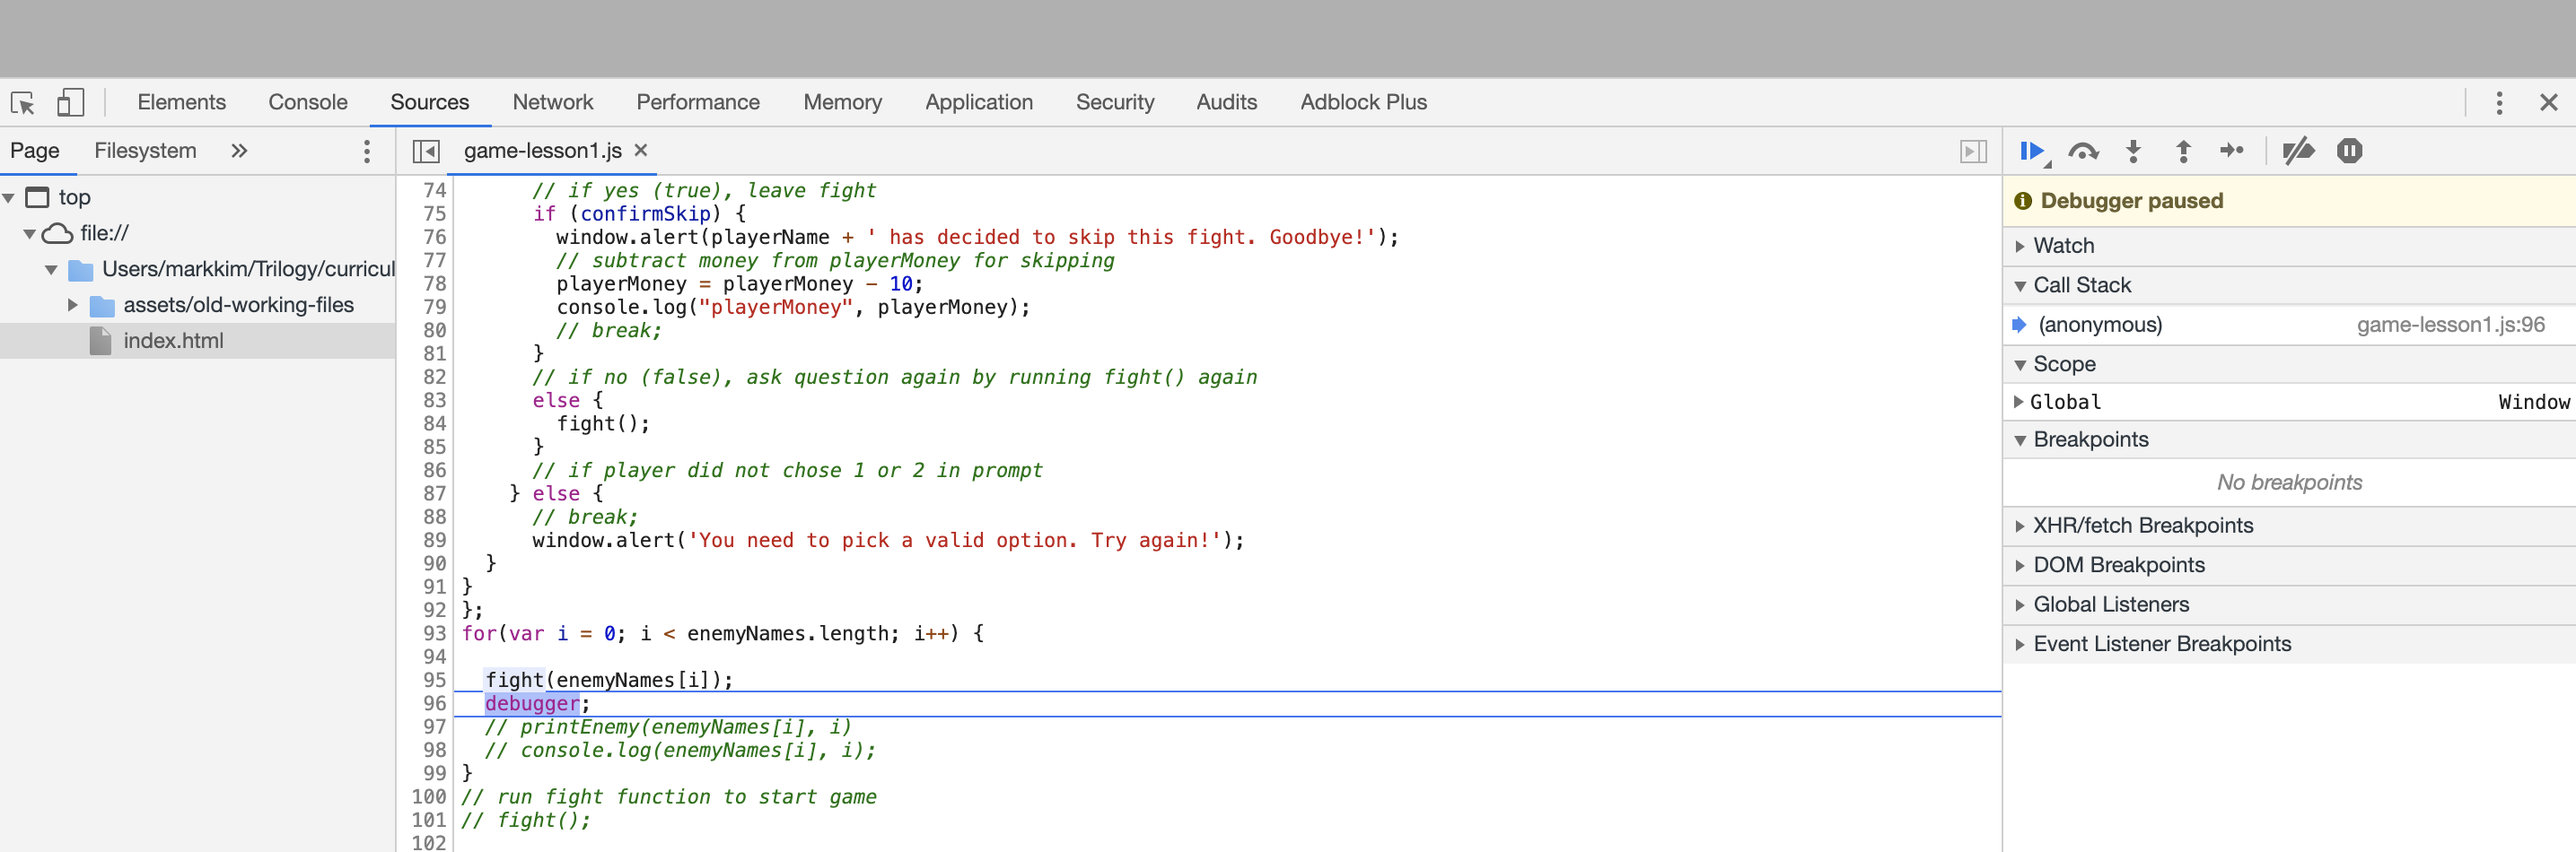
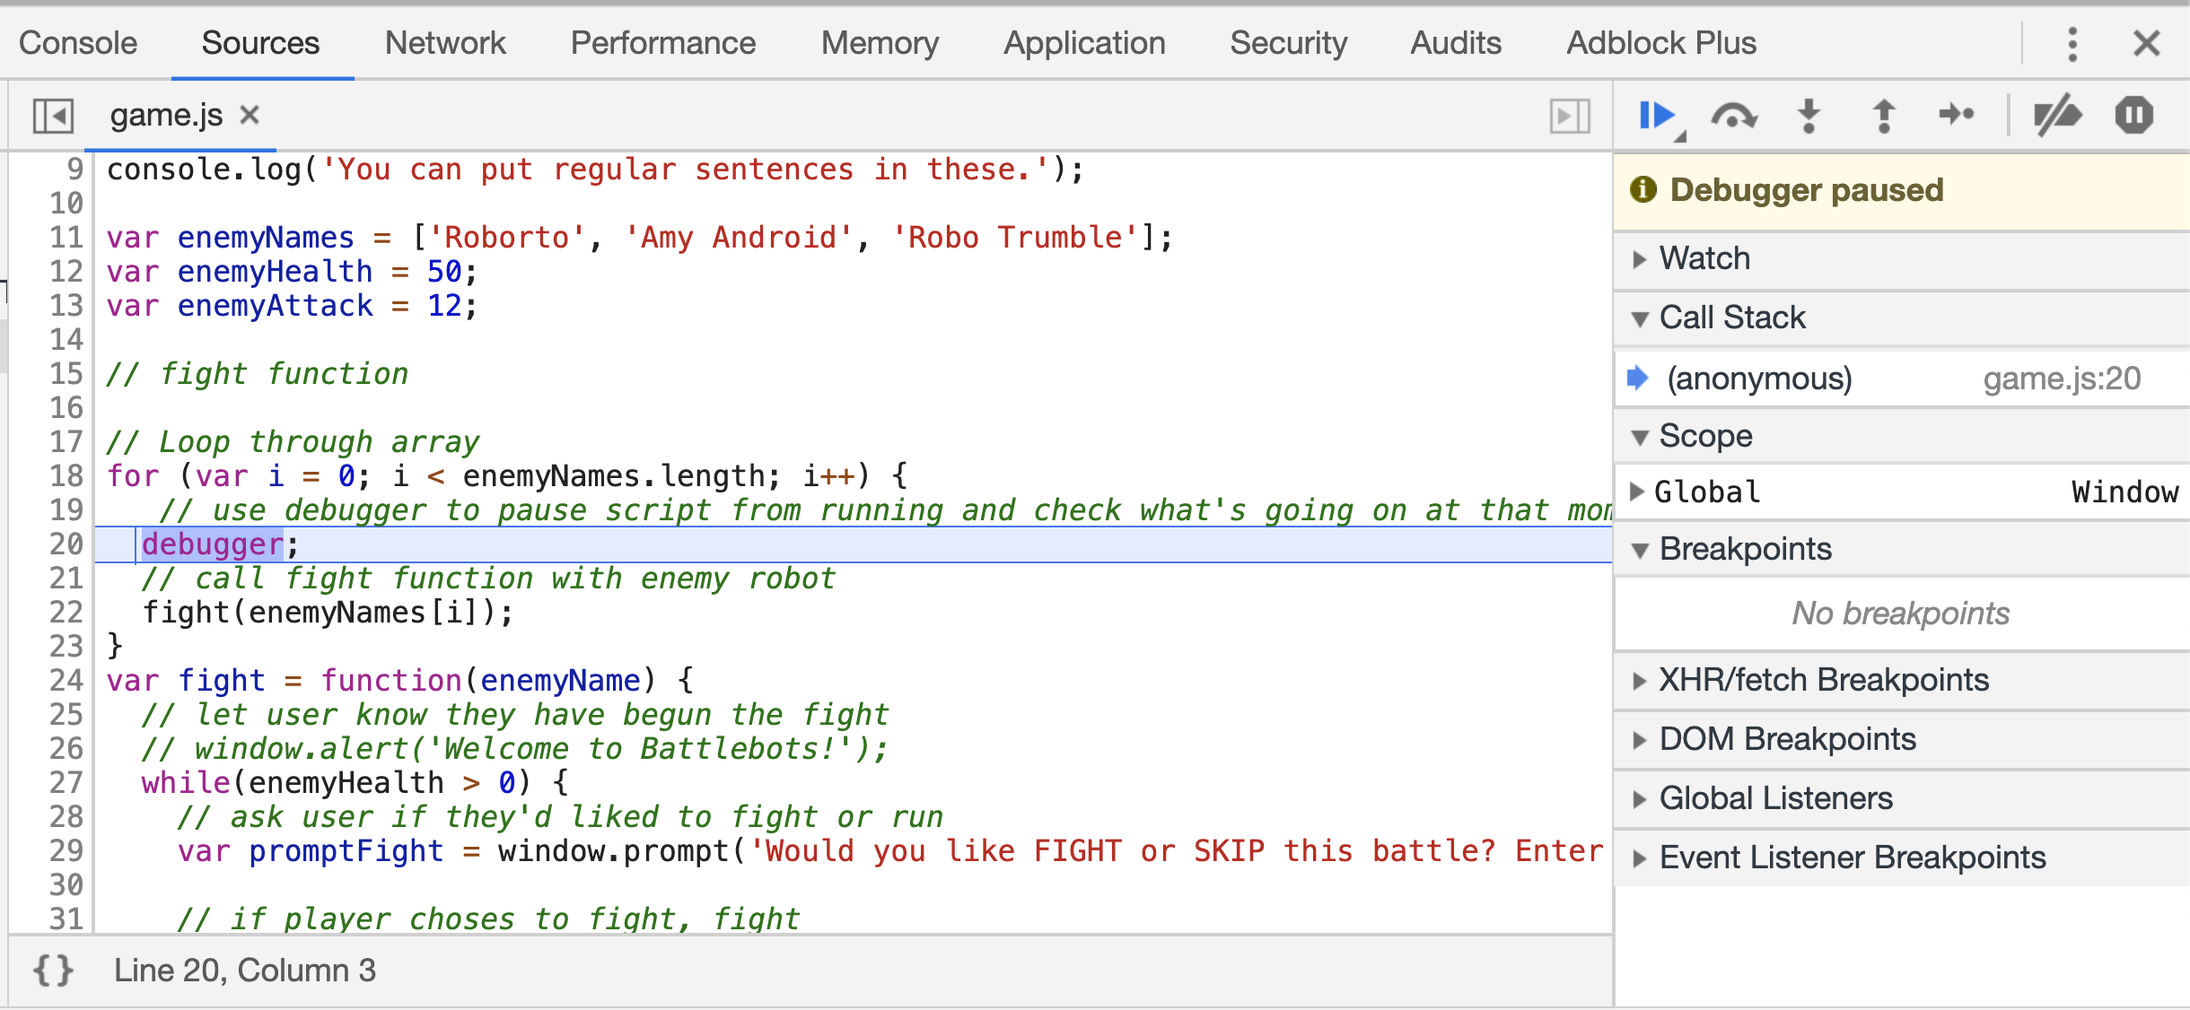
Lose condition

Changed region(s): [[0.0, 0.0, 1.0, 1.0], [0.7164, 0.9768, 0.7475, 1.0]]

diff --git a/03-javascript/project/index.html b/03-javascript/project/index.html
@@ -8,5 +8,7 @@
 </head>
 <body>
   <script src="./assets/old-working-files/game-lesson1.js"></script>
+  <!-- <script src="./assets/old-working-files/game-lesson2.js"></script> -->
+
 </body>
 </html>

diff --git a/03-javascript/content/lesson-2-loops.md b/03-javascript/content/lesson-2-loops.md
@@ -233,12 +233,12 @@ alert("Hello");               // string argument
 console.log(enemyNames[i], i) // two arguments, comma separated
 for(var i = 0; i < enemyNames.length; i++) // three arguments; semicolons are specific to for loops
 ```
-Previously we have been using arguments with `window` methods and JavaScript functions, but now we will construct our own function that is able to pass in an argument. Now let's make some changes to our `fight()` function expression to allow an argument to be used. Remember the function expression defines the "how" and "what" of our function's operations. If we want the function to perform differently we must change our function definition every time. We would like to convert our `fight()` function to pass in an enemy robot and then fight this robot. Let's find our `fight()` expression and change the first line to the following:
+Previously we have been using arguments with `window` methods and JavaScript functions, but now we will change our `fight()`  function to pass in an argument. Remember the function expression defines the "how" and "what" of our function's operations. If we want the function to perform differently we must change our function's definition. We would like to convert our `fight()` function to pass in an enemy robot and then fight this robot. Let's find our `fight()` expression and change the first line to the following:
 ```javascript
 var fight = function(enemyName) {
 ```
-We just redefined our `fight` variable to now be a function that is able to input or receive a variable. Since we are dealing the a variable placeholder in the function definition, we call this the function *parameter*.
-> **Deep Dive:** Parameters vs Arguments - Parameters are often confused with arguments due to the similarity in syntax. The main distinction between them is the purpose in relation to the function. In a function expression, a parameter serves as a variable placeholder that indicates how this variable will be used in the function. Since the use of the parameter is reserved to only the scope of the function, the name of the parameter isn't very significant, but normally is related to the type or purpose of the variable as follows: 
+We just redefined our `fight` variable to now be a function that is able to input or receive a variable. Since we are dealing the a variable placeholder in the function definition, we call this the function's *parameter*.
+> **Deep Dive:** Parameters vs Arguments - Parameters are often confused with arguments due to the similarity in syntax. The main distinction between them is the purpose in relation to the function. In a function expression, a parameter serves as a variable placeholder that indicates how this variable will be used in the function. Since the use of the parameter is reserved to only the scope of the function, the name of the parameter isn't significant, but normally is related to the type or purpose of the variable as follows: 
 >```javascript
 >var wash = function(soapType) {
 >  console.log("I wash with " + soapType);
@@ -248,10 +248,10 @@ We just redefined our `fight` variable to now be a function that is able to inpu
 >```javascript
 >wash("Irish Spring"); // => I wash with Irish Spring
 >```
->Will be returned in the console.
-As shown, the argument is part of the function call, not the function expression. The argument passes information into the function whether that be a variable or a value with any data type or data structure.
+>Will be displayed in the console.
+As shown, the argument is part of the function call and passes information into the function whether that be a variable or a value with any data type or data structure.
 
-Let's look into the `fight()` function and note that by adding the parameter `enemyName` this maps perfectly within the function to display our enemy robot's name.
+Let's look into the `fight()` function and note that by adding the parameter `enemyName` maps perfectly within the function to our original `enemyName` variable we used to store our enemy robot's name.
 
 ### Application Organization
 Now that our `fight()` function has been corrected, let's continue with our goal to make our robot fight each of our enemy robots. Before we proceed let's make sure our app is correctly organized. Our global variables should be at the top of our `game.js` file along with our `enemyNames` array.
@@ -265,10 +265,8 @@ var enemyNames = ['Roborto', 'Amy Android', 'Robo Trumble'];
 var enemyHealth = 50;
 var enemyAttack = 12;
 ```
-Let's comment out our `console.log` statements for now to declutter our console window. Next in our file should be the `fight()` function expression. This has to be above our `for` loop because since we will be calling the `fight()` within our loop. 
-> **Pause:** If the function is not declared before the function call, what type of error will be in the console?
-> 
-> **Answer:** *Uncaught ReferenceError*
+Let's comment out our `console.log` statements for now to declutter our console window. Next in our `game.js` file should be the `fight()` function expression. This has to be above our `for` loop because we will be calling the `fight()` within our loop. 
+If the function is not declared before the function call, we would get an error similar to the one we received earlier except a bit different.  Uncaught TypeError: fight is not a function
 
 Now let's type the `for` loop into our `game.js` file beneath the `fight()` function as follows:
 ```javascript
@@ -284,38 +282,40 @@ As can be seen in our console, we have successfully looped through our array and
 This is a great spot to add, commit, and push our work into the Github repo for safe keeping. 
 
 ## Fight Loop
-The next objective is to defeat each robot. Currently we are only able to fight each robot once. So how do we go about fighting each robot until a winner is found? Sounds a bit like we need another loop, to continue the fighting. Earlier we determined that to defeat a robot we need to fight them until their health points reduce to zero or less. This was translated into code by using the following conditional:
+The next objective is to defeat each robot. Currently we are only able to fight each robot once. So how do we go about fighting each robot until a winner is found? Sounds a bit like we need another loop, to continue the fighting. Earlier we determined that to defeat a robot we need to fight them until their health points reduce to zero or less. Conversely we can say that we will fight the enemy robot while it is alive. This was translated into code by using the following conditional:
 ```javascript
-if (enemyHealth <= 0) // enemy robot is defeated
+if (enemyHealth > 0) // if the enemy robot has health points continue to fight
 ```
 
-Thankfully we have a function we can use that loops or repeatedly execute a line or block of code *while* a condition remains true. This is called the `while` loop. Very similar in concept to the `for` loop, both functions repeatedly execute a line or block of code until a condition becomes false. Let's write our code within the `fight()` function to look like the following:
+Thankfully we have a function we can use that loops or repeatedly execute a line or block of code *while* a condition remains true. This is called the `while` loop. Very similar in concept to the `for` loop, both functions repeatedly execute a line or block of code while a condition is true. Let's write our code within the `fight()` function to look like the following:
 ```javascript
 var fight = function(enemyName) {
-  // repeat and execute as long as the enemy robot is alive
+  // repeat and execute as long as the enemy robot is alive 
   while(enemyHealth > 0) {
-
+    // place fight code here . . .
   }
 ```
 Within the block of the `while` loop let's move all the code from our `fight()` function. Now when the `fight()` function is called, our robot will fight the enemy robot again until defeated.
 
 Let's run this code and see the results in the console.
 We should see the following in the console.
+
 > **Important:** Keep the console window in the browser open during the development process since errors and results will be displayed there.
 
 ![Console Fight Loop](./assets/lesson-2/1000-console-fight-loop.png)
 
 This is partially what we want. The `while` loop in the `fight()` function appeared to have worked correctly, however only one enemy robot was fought and there doesn't seem to be any errors to speak of. A good way to debug our code is ask a few questions to start. 
-  * Is our `for` loop not iterating through our array? 
+  * Is our `for` loop not iterating through our `enemyNames` array correctly? 
   * Is the `while` loop not functioning as expected? 
   * Is our `fight()` function not accepting additional enemy robots? 
   
 In order to resolve these questions it would be good to see some of our variable's values to explain where in the program we need to fix.  A good technique we are familiar would be to place strategic `console.log()`'s judiciously in our program. A good place to start would be in the `for` loop. 
-Let's use a different technique this time to reveal our variable values. The `for` loop is an excellent place to use a new tool called the debugger. Let's type the following in the `game.js` file:
+Let's use a different technique this time to reveal our variable values. The `for` loop is an excellent place to use a new tool called the debugger. Let's type the following in the `game.js` file before the `fight()` function call:
 ```javascript
-for(var i = 0; i < enemyNames.length; i++) {
-  fight(enemyNames[i]);
+for (var i = 0; i < enemyNames.length; i++) {
   debugger;
+  // call fight function with enemy robot
+  fight(enemyNames[i]);
 }
 ```
 This is inform us if the `for` loop is actually iterating through the `enemyNames` array.
@@ -323,7 +323,7 @@ Now let's run the program to see what happens. Our console's response should loo
 
 ![Chrome Debugger](./assets/lesson-2/1100-chrome-debugger.png)
 
-Notice that in the middle window, we can see the JavaScript file with our `debugger;` statement highlighted. This is called the Code Editor pane. To the left, is the the File Navigator pane which displays the folder tree. To the right will be the JavaScript Debugging pane. The current status notes that the `debugger` has been paused therefore the program is currently frozen unless we click the resume button. We currently we are in the Sources tab of the console.
+Notice that in the middle window, we can see the JavaScript file with our `debugger;` statement highlighted. This is called the Code Editor pane. To the left, is the the File Navigator pane which displays the folder tree. To the right will be the JavaScript Debugging pane. The current status notes that the `debugger` has been paused therefore the program is currently frozen unless we click the resume button. We currently are in the Sources tab of the console.
 
 > **Video:** [Gif Debugger Tool - Jira FSFO-163](https://trilogyed.atlassian.net/jira/software/projects/FSFO/boards/197/backlog?selectedIssue=FSFO-163)
 
@@ -339,9 +339,9 @@ Once we press enter, the Watch window is updated with our new variable value as 
 
 ![Debugger Add Variable Tracker](./assets/lesson-2/1300-variable-debugger.png)
 
-Since we are in the first iteration of the `for` loop as indicated by the `i` set to zero, the first element of the array is currently being accessed in the `for` loop. Since we placed the `debugger` statement after the `fight()` function call, we have found our robots after a round of fighting. 
+Since we are in the first iteration of the `for` loop, the `i` value is zero and the first element of the array is currently being accessed in the `for` loop. Since we placed the `debugger` statement before the `fight()` function call, we have found our robots before they go into battle. 
 
-> **Pro Tip:** For the sake of faster development, we can reduce some of the health initial values for the player and the enemy for quicker battles.
+> **Pro Tip/ Shortcut:** For the sake of faster testing results, we can reduce some of the health points initial values for the player and the enemy for quicker battles.
 
 Since the health of the robots is a major inflection point in our battle, we should keep an extra eye on how these values change. Currently it appears that the `enemyHealth` value is currently at zero. 
 ### Debugger Controller
@@ -355,12 +355,11 @@ Let's click on the step button and progress slowly through the program executing
 
 > **Video:** [Gif - Jira FSFO-165 Debugging Step](https://trilogyed.atlassian.net/jira/software/projects/FSFO/boards/197/backlog?selectedIssue=FSFO-164)
 
-We can see that the next progression, the `i` value iterates by one due to the `for` loop argument, `i++`. Next, the `i` conditional is checked in the `for` loop, `i < enemyNames.length`. Since this conditional is satisfied because `1 < 3` returns a true statement, we then proceed into the `fight()` function. But instead of progressing with our new robot enemy into the `while` loop, we are immediately kicked out of this function. It appears we did not satisfy the `while` loops condition that the `enemyHealth > 0`. *Ah ha!* That is why our player robot is failing to fight the other enemy robots besides the first one. We only have a single global `enemyHealth` variable set as the health for all the robots, attacking one robot is like attacking all the enemy robots. We must reset the `enemyHeatlh` value before each robot battle so the next robot can start battling at full strength. Let's reset our enemy robot's health by assigning it right before we our `fight()` function call inside the `for` loop. For simplicity sake let's choose a variable name that is more semantic than `enemyNames[i]` to store our current enemy robot. 
+We can see that the next progression, the `i` value iterates by one due to the `for` loop argument, `i++`. Next, the `i` conditional is checked in the `for` loop, `i < enemyNames.length`. Since this conditional is satisfied because `1 < 3` returns a true statement, we then proceed into the `fight()` function. But instead of progressing with our new robot enemy into the `while` loop, we are immediately kicked out of this function. It appears we did not satisfy the `while` loops condition that the `enemyHealth > 0`. *Ah ha!* That is why our player robot is failing to fight the other enemy robots besides the first one. We only have a single global `enemyHealth` variable set as the health for all the robots, attacking one robot is like attacking all the enemy robots. We must reset the `enemyHeatlh` value before each robot battle so a new robot can start battling at full strength. Let's reset our enemy robot's health by assigning it right before we our `fight()` function call inside the `for` loop. For simplicity sake let's choose a variable name that is more semantic than `enemyNames[i]` to store our current enemy robot. 
 <!-- Another adjustment in the `for` loop would be to remove our `alert("Welcome to Battlebots!")` from our `fight()` function.  -->
 Please make sure your `for` loop looks similar to this:
 ```javascript
 for (var i = 0; i < enemyNames.length; i++) {
-    window.alert('Welcome to Battlebots! Round ' + (i + 1));
     var pickedEnemyName = enemyNames[i];
     enemyHealth = 50;
     fight(pickedEnemyName);
@@ -375,8 +374,12 @@ Now that looks more like a battle! Our rounds are much longer and extensive. Exc
 Looking at the console, there does seem to be some oddities that are not very representative of how an actual battle would occur. Let's fix these cases to improve the gameplay.
 * The player robot's health drops into negative numbers
 * After an enemy robot has been defeated, it is still able to attack
-* After an enemy robot has been defeated, let's reward the player robot for its battle skill and bravery
+* Let's reward the player robot for defeating robots
 * Fix the "SKIP" option to function correctly
+
+In order to prevent our player robot from attacking after our health is gone, we need to set up the next pseudocoding objective: How to lose the game. Once the player or the robot has been defeated, we should no longer be in able to fight which means need to exit the `fight()` function. Luckily for us we can use a keyword called `break`.
+
+
 
 ## Reflection
 Great job! We now have a game that is playable and nearly complete in regards to our MVP. We are making excellent progress in our Game Jam so far. Seeing that we still have some time left, let's add some interesting game play features to increase game complexity and randomness since a predictable game can be a bit boring. This will go over well with the Game Jam judges since at the end of the day more fun is always better. Before we continue let's review some of the key concepts we have covered so far.
